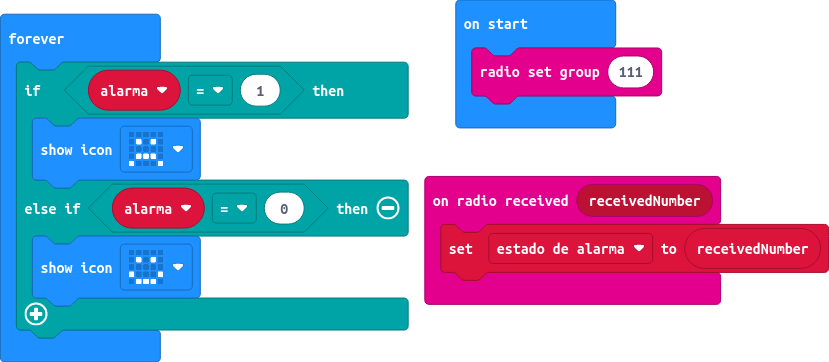
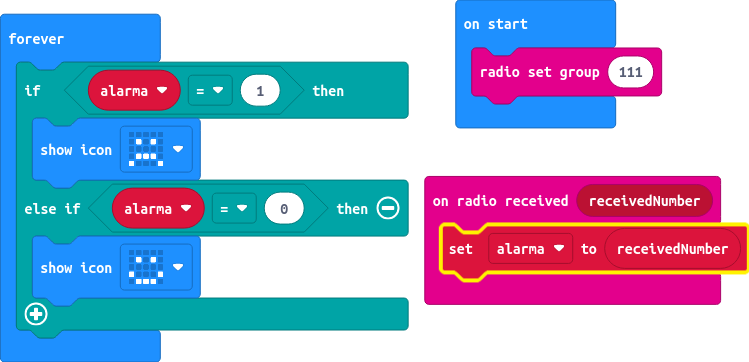
Update main.blocks, main.ts

diff --git a/main.ts b/main.ts
@@ -1,10 +1,9 @@
 radio.onReceivedNumber(function (receivedNumber) {
-    estado_de_alarma = receivedNumber
+    alarma = receivedNumber
 })
-let estado_de_alarma = 0
+let alarma = 0
 radio.setGroup(111)
 basic.forever(function () {
-    let alarma = 0
     if (alarma == 1) {
         basic.showIcon(IconNames.Sad)
     } else if (alarma == 0) {
